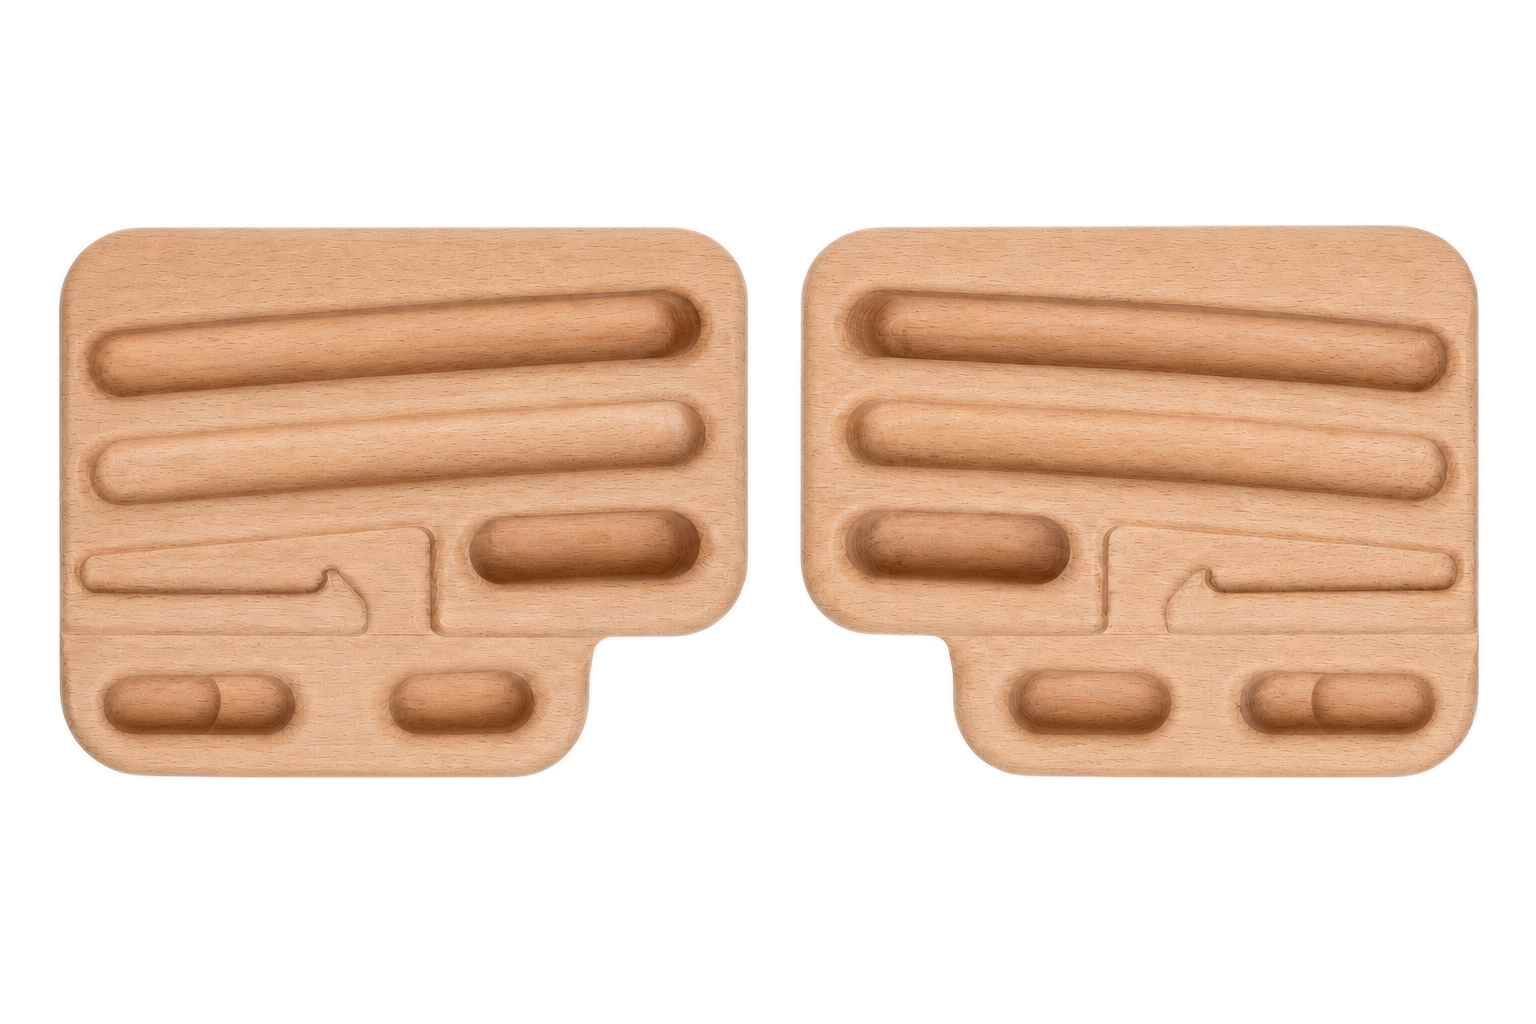
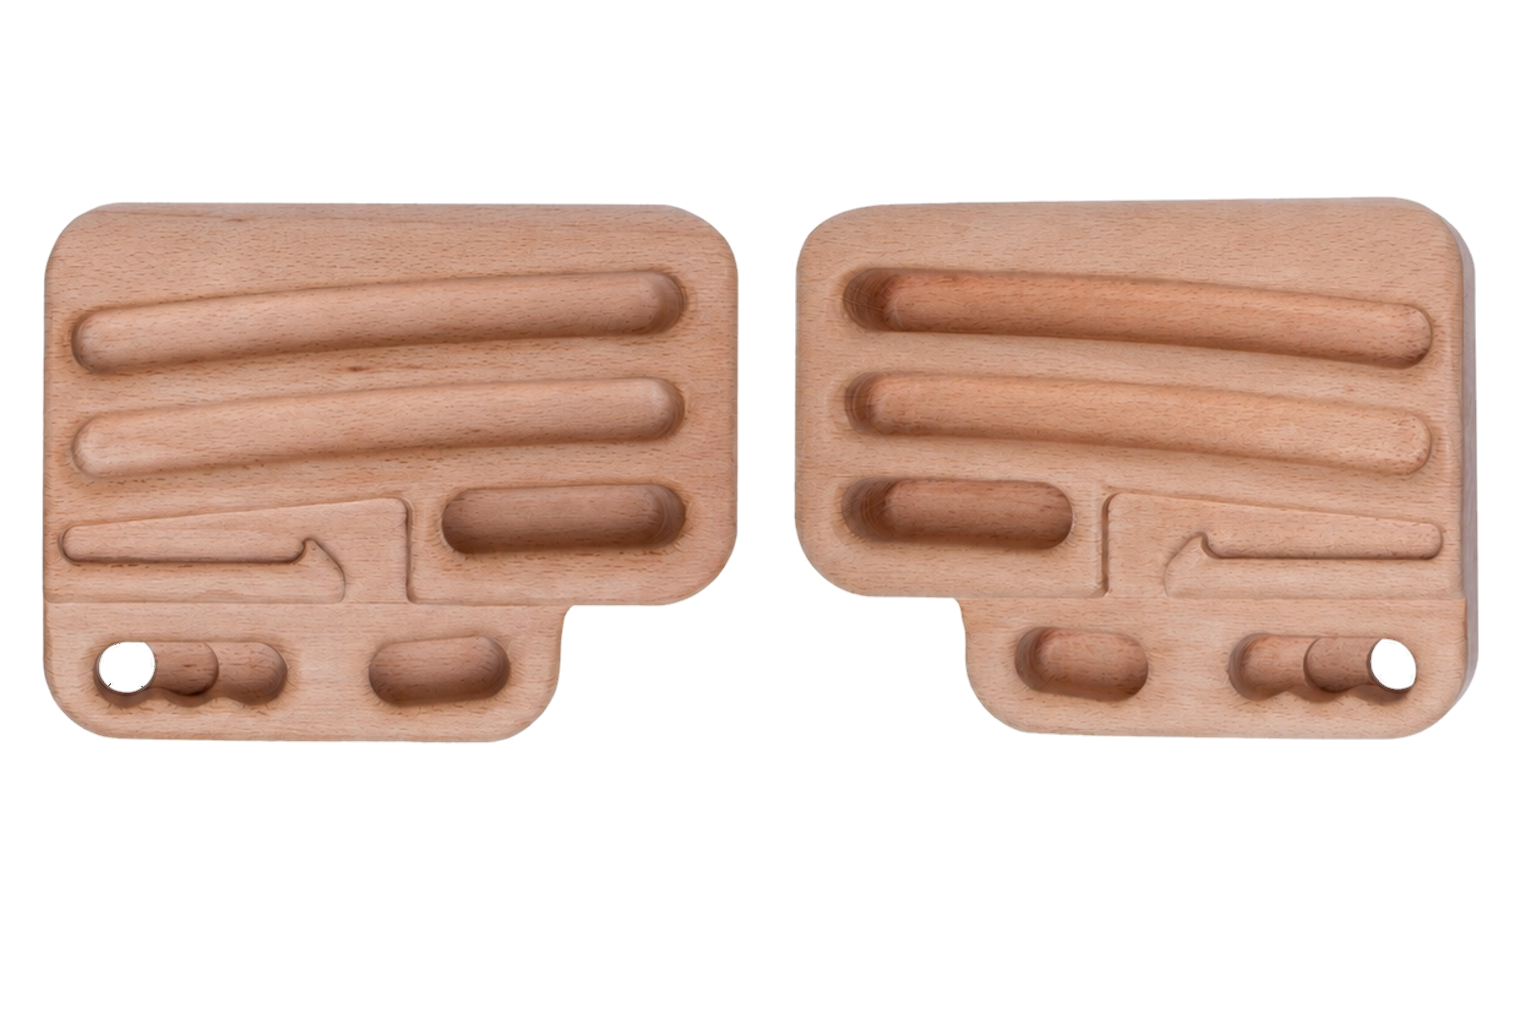
Refine Trango Natural wood presentation (#306)

diff --git a/docs/source-audits/2026-08-19-all-board-metadata-hold-audit.md b/docs/source-audits/2026-08-19-all-board-metadata-hold-audit.md
@@ -349,6 +349,21 @@ none of the removed art or geometry was restored as a starting point.
 ### `trango-rock-prodigy-natural`
 
 - **Source:** [Trango Rock Prodigy Natural](https://trango.com/products/rock-prodigy-natural).
+- **2026-08-24 presentation correction:** `assets/primary.png` uses the
+  review-approved cleaned Natural presentation, sourced from Trango's
+  first-party [Natural main product photo](https://trango.com/cdn/shop/products/22850_RockProdigyNatural_MainImage_TopDownMarkings.jpg?v=1755037315&width=1946)
+  and [official rail detail](https://trango.com/cdn/shop/products/22850_RockProdigyNatural_AltImage2_Rails.jpg?v=1724692982&width=1946).
+  Those references, plus the official [Natural quick-start guide](https://cdn.shopify.com/s/files/1/0282/7557/2841/files/Rock_Prodigy_Natural_Consumer_Quick_Start_Final_Digital_9.21.21.pdf?v=1656514361),
+  were used to review the paired top/front orientation, recessed relief, and
+  through-holes. The reviewed content cleanup removes product markings and
+  does not claim pixel-exact preservation of the original product photo. The
+  approved `1254 × 1254` review frame is uniformly scaled to `1536 × 1536` and
+  center-framed in the final `1536 × 1024` asset without clipping board pixels.
+  The white source background and the two lower true through-holes are
+  transparent. A generic one-pixel alpha-edge RGB decontamination changes only
+  color at the existing alpha edge to avoid a white fringe; it does not change
+  silhouette or through-hole coverage. The board geometry and canonical hold
+  paths remain unchanged and are reviewed against the resulting raster.
 - **Current JSON holds:** 14 logical holds / 16 geometry pieces.
 - **Source-backed expected physical count:** 14.
 - **Verified facts:** Trango Rock Prodigy Natural; each half is
